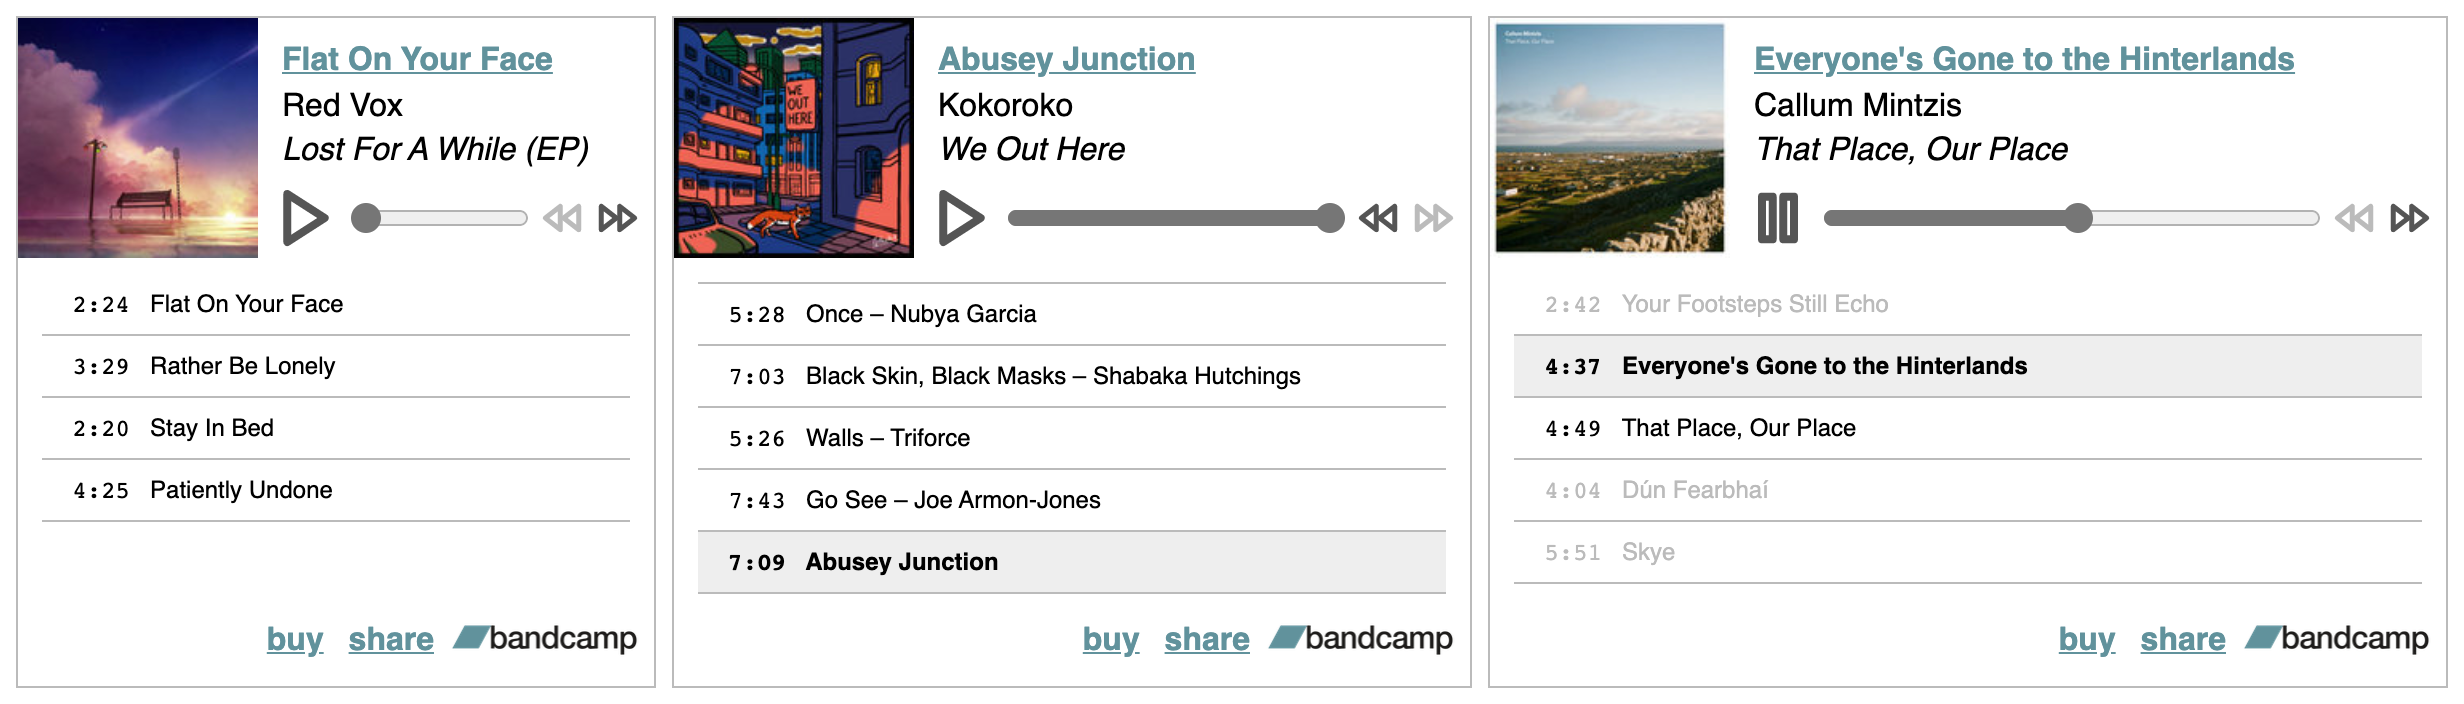
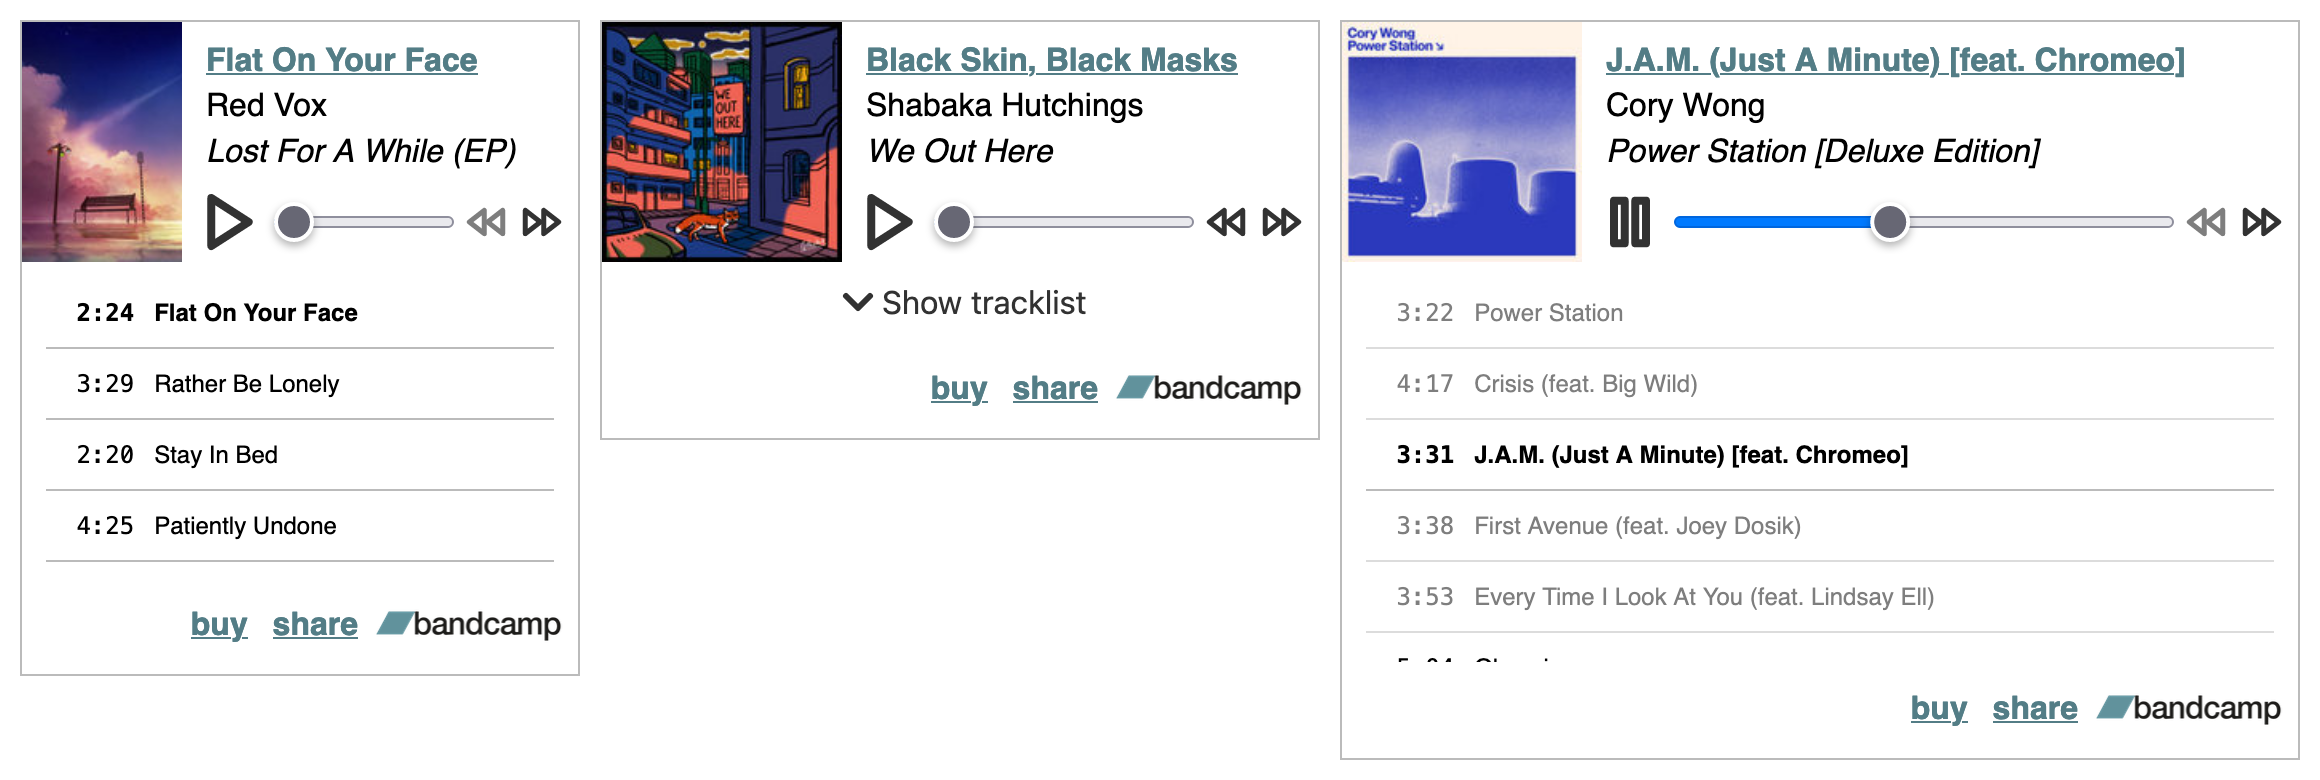
Update screenshots

diff --git a/src/worker/examples.html b/src/worker/examples.html
@@ -49,6 +49,6 @@
     <hr />
 
     <div style="max-width: 480px; min-height: 210px"></div>
-    <script async data-album-id="3916335310" src="/embed/bundle.js"></script>
+    <script async data-album-id="161059800" src="/embed/bundle.js"></script>
   </body>
 </html>
